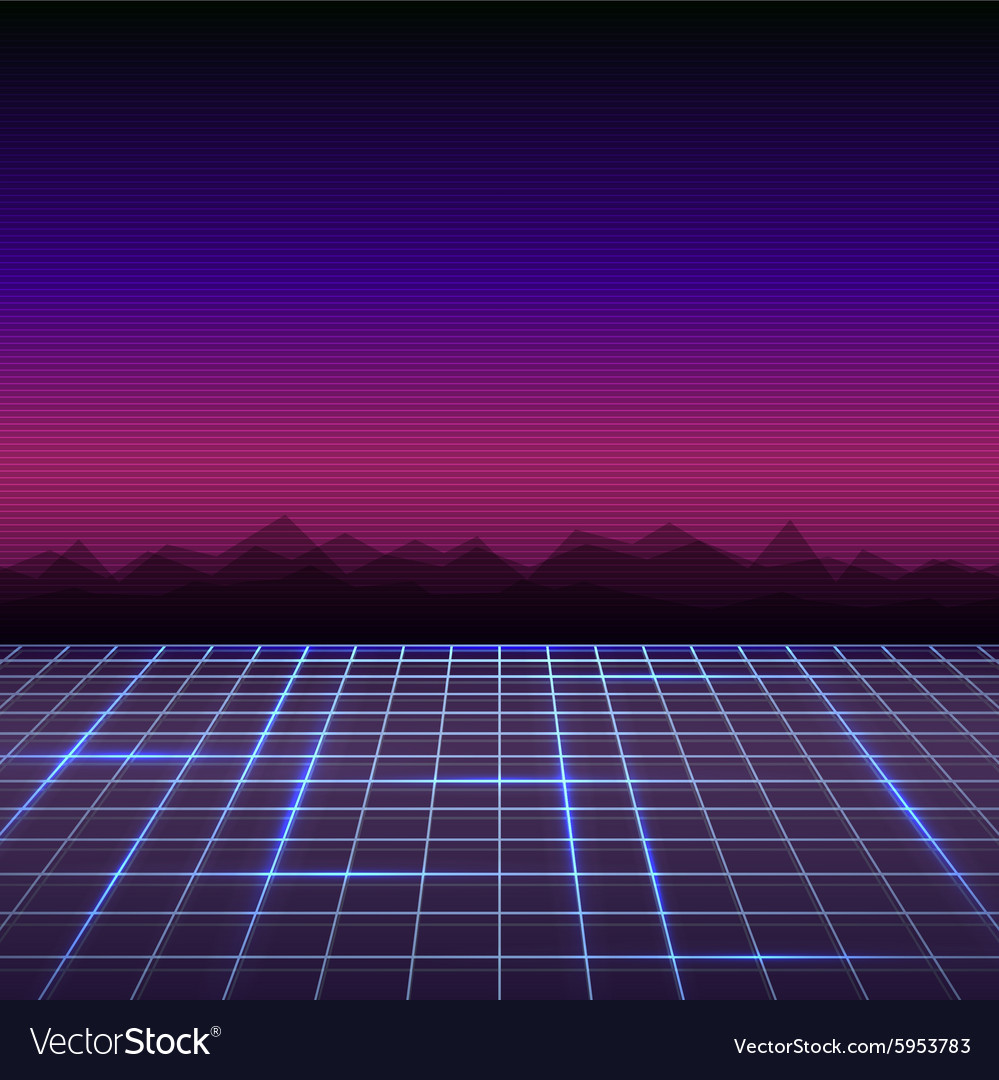
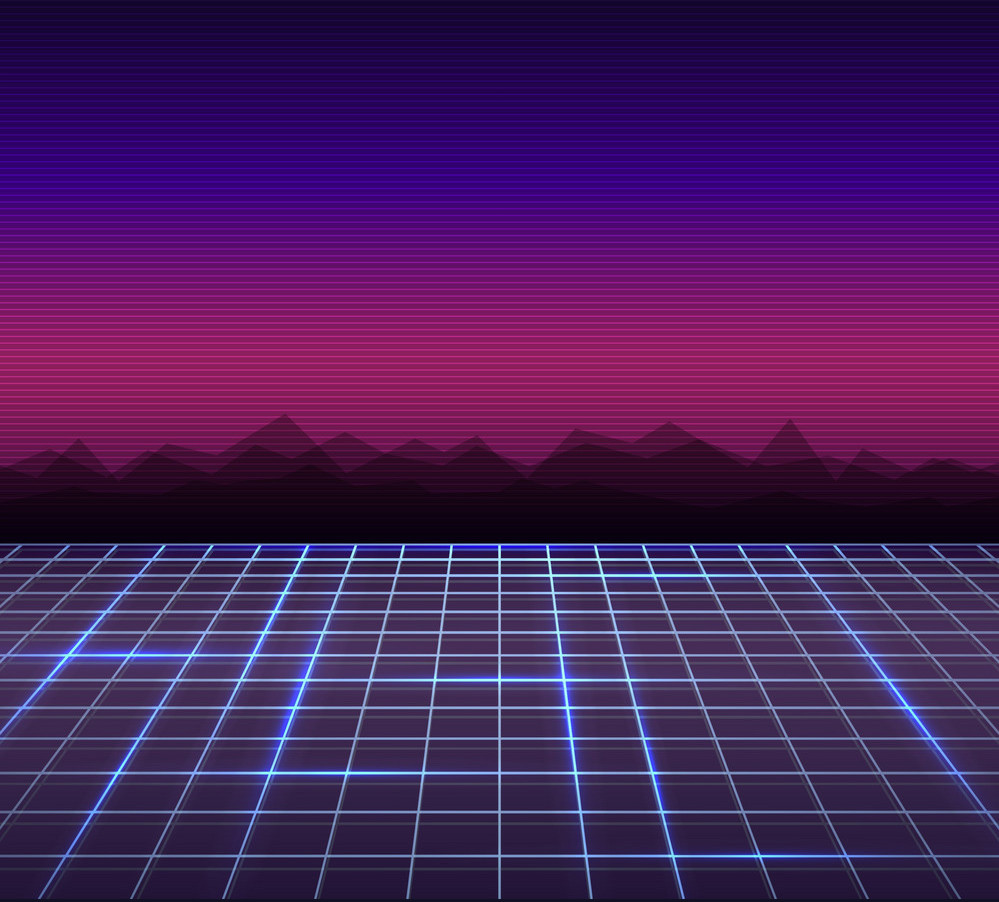
Done adding a background and font

diff --git a/css/style.css b/css/style.css
@@ -1,0 +1,38 @@
+body{
+    margin: 0;
+    background-image: url('../img/background.jpg');
+}
+
+.board{
+    display: grid;
+    grid-template-rows: repeat(20 ,1fr);
+    grid-template-columns: repeat(20, 1fr);
+    border: 1px solid black;
+    height: 500px;
+    width: 500px;
+    margin-left: 32%;
+    margin-top: 3%;
+    border: 5px solid white;
+    background-color: #2c0d52;
+}
+
+
+.score-cards{
+    display: flex;
+    flex-direction: row;
+    justify-content: space-around;
+    margin-top: 20px;
+    color: white;
+}
+
+.score{
+    /* margin-right: 50px; */
+    font-family: 'ArcadeClassic', sans-serif;
+    font-size: 50px;                                         
+}
+
+.highscore{
+    /* margin-left: 50px; */
+    font-family: 'ArcadeClassic', sans-serif;
+    font-size: 50px;
+}

diff --git a/index.html b/index.html
@@ -6,23 +6,20 @@
     <meta http-equiv="X-UA-Compatible" content="IE=edge">
     <meta name="viewport" content="width=device-width, initial-scale=1.0">
     <link rel="stylesheet" href="css/style.css">
+    <link href="http://fonts.cdnfonts.com/css/arcade-classic" rel="stylesheet">
     <title>Document</title>
 </head>
 
 <body>
+    <section class="score-cards">
+        <div class="score">Your-Score: <span>0</span></div>
+        <div class="highscore">HighScore: <span>0</span></div>
+    </section>
+
 
     <section>
         <div class="board"></div>
     </section>
-
-    <section>
-        <div>Your Score: <span>0</span></div>
-        <div>HighScore: <span>0</span></div>
-    </section>
-
-
-
-
 
 
     <script src="js/script.js"></script>
